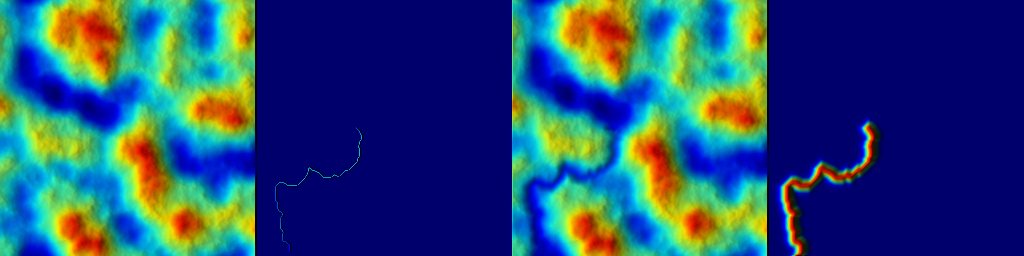
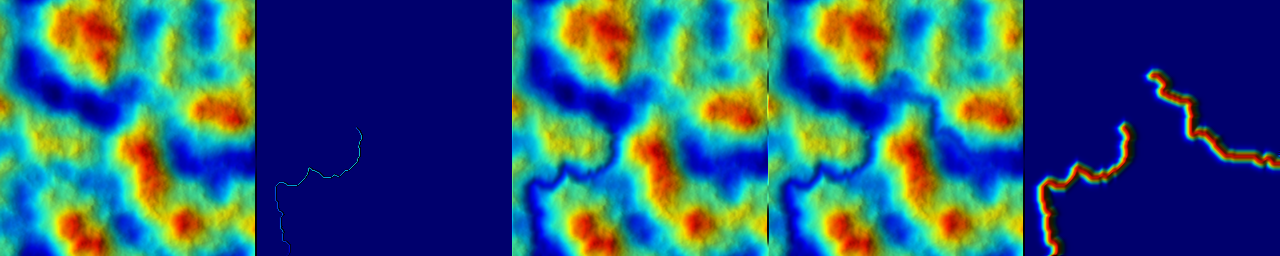
Add multiple path as input for dig_river

diff --git a/HighMap/src/geometry/path.cpp b/HighMap/src/geometry/path.cpp
@@ -952,38 +952,41 @@ void dig_path(Array      &z,
   z = lerp(z, zf, mask);
 }
 
-void dig_river(Array      &z,
-               const Path &path,
-               float       riverbank_talus,
-               int         merging_ir,
-               float       riverbed_talus,
-               float       noise_ratio,
-               uint        seed,
-               Array      *p_mask)
+void dig_river(Array                   &z,
+               const std::vector<Path> &path_list,
+               float                    riverbank_talus,
+               int                      merging_ir,
+               float                    riverbed_talus,
+               float                    noise_ratio,
+               uint                     seed,
+               Array                   *p_mask)
 {
-  // where the river path lies
-  Array mask(z.shape);
-
-  Path path_copy = path;
-  path_copy.set_values(1.f);
-  hmap::Vec4<float> bbox(0.f, 1.f, 0.f, 1.f);
-  path_copy.to_array(mask, bbox);
-
-  // expand the path
-  path_copy = path;
-  path_copy.enforce_monotonic_values();
-
-  // add downstream slope
-  if (riverbed_talus > 0.f)
-  {
-    for (size_t k = 0; k < path_copy.get_npoints() - 1; k++)
-      path_copy.points[k + 1].v = std::min(path_copy.points[k].v,
-                                           path_copy.points[k].v -
-                                               riverbed_talus);
-  }
-
+  // generate mask where the river path lies and dig rivers
+  Array       mask(z.shape);
   hmap::Array z_carved = z;
-  path_copy.to_array(z_carved, bbox);
+
+  for (auto path : path_list)
+  {
+    Path path_copy = path;
+    path_copy.set_values(1.f);
+    hmap::Vec4<float> bbox(0.f, 1.f, 0.f, 1.f);
+    path_copy.to_array(mask, bbox);
+
+    // expand the path
+    path_copy = path;
+    path_copy.enforce_monotonic_values();
+
+    // add downstream slope
+    if (riverbed_talus > 0.f)
+    {
+      for (size_t k = 0; k < path_copy.get_npoints() - 1; k++)
+        path_copy.points[k + 1].v = std::min(path_copy.points[k + 1].v,
+                                             path_copy.points[k].v -
+                                                 riverbed_talus);
+    }
+
+    path_copy.to_array(z_carved, bbox);
+  }
 
   expand_talus(z_carved, mask, riverbank_talus, seed, noise_ratio);
   laplace(z_carved);
@@ -999,6 +1002,27 @@ void dig_river(Array      &z,
 
   // return mask if requested
   if (p_mask) *p_mask = dist;
+}
+
+void dig_river(Array      &z,
+               const Path &path,
+               float       riverbank_talus,
+               int         merging_ir,
+               float       riverbed_talus,
+               float       noise_ratio,
+               uint        seed,
+               Array      *p_mask)
+{
+  const std::vector<Path> path_list = {path};
+
+  dig_river(z,
+            path_list,
+            riverbank_talus,
+            merging_ir,
+            riverbed_talus,
+            noise_ratio,
+            seed,
+            p_mask);
 }
 
 } // namespace hmap

diff --git a/examples/ex_flow_stream/ex_flow_stream.cpp b/examples/ex_flow_stream/ex_flow_stream.cpp
@@ -17,7 +17,7 @@ int main(void)
   hmap::Array zv(shape);
   path.to_array(zv, bbox);
 
-  hmap::Array zd = z;
+  hmap::Array zd1 = z;
 
   float       riverbank_talus = 1.f / shape.x;
   int         merging_ir = 4;
@@ -25,8 +25,22 @@ int main(void)
   float       noise_ratio = 0.9f;
   hmap::Array mask;
 
-  hmap::dig_river(zd,
-                  path,
+  hmap::dig_river(zd1,
+                  {path},
+                  riverbank_talus,
+                  merging_ir,
+                  riverbed_talus,
+                  noise_ratio,
+                  seed,
+                  &mask);
+
+  // multiple streams
+  hmap::Vec2<int> ij_start2(128, 180);
+  hmap::Path      path2 = hmap::flow_stream(z, ij_start2);
+
+  hmap::Array zd2 = z;
+  hmap::dig_river(zd2,
+                  {path, path2},
                   riverbank_talus,
                   merging_ir,
                   riverbed_talus,
@@ -35,7 +49,7 @@ int main(void)
                   &mask);
 
   hmap::export_banner_png("ex_flow_stream.png",
-                          {z, zv, zd, mask},
+                          {z, zv, zd1, zd2, mask},
                           hmap::Cmap::JET,
                           true);
 }

diff --git a/HighMap/include/highmap/geometry/path.hpp b/HighMap/include/highmap/geometry/path.hpp
@@ -866,6 +866,15 @@ void dig_path(Array      &z,
  * **Result**
  * @image html ex_flow_stream.png
  */
+void dig_river(Array                   &z,
+               const std::vector<Path> &path_list,
+               float                    riverbank_talus,
+               int                      merging_ir,
+               float                    riverbed_talus = 0.f,
+               float                    noise_ratio = 0.9f,
+               uint                     seed = 0,
+               Array                   *p_mask = nullptr);
+
 void dig_river(Array      &z,
                const Path &path,
                float       riverbank_talus,
